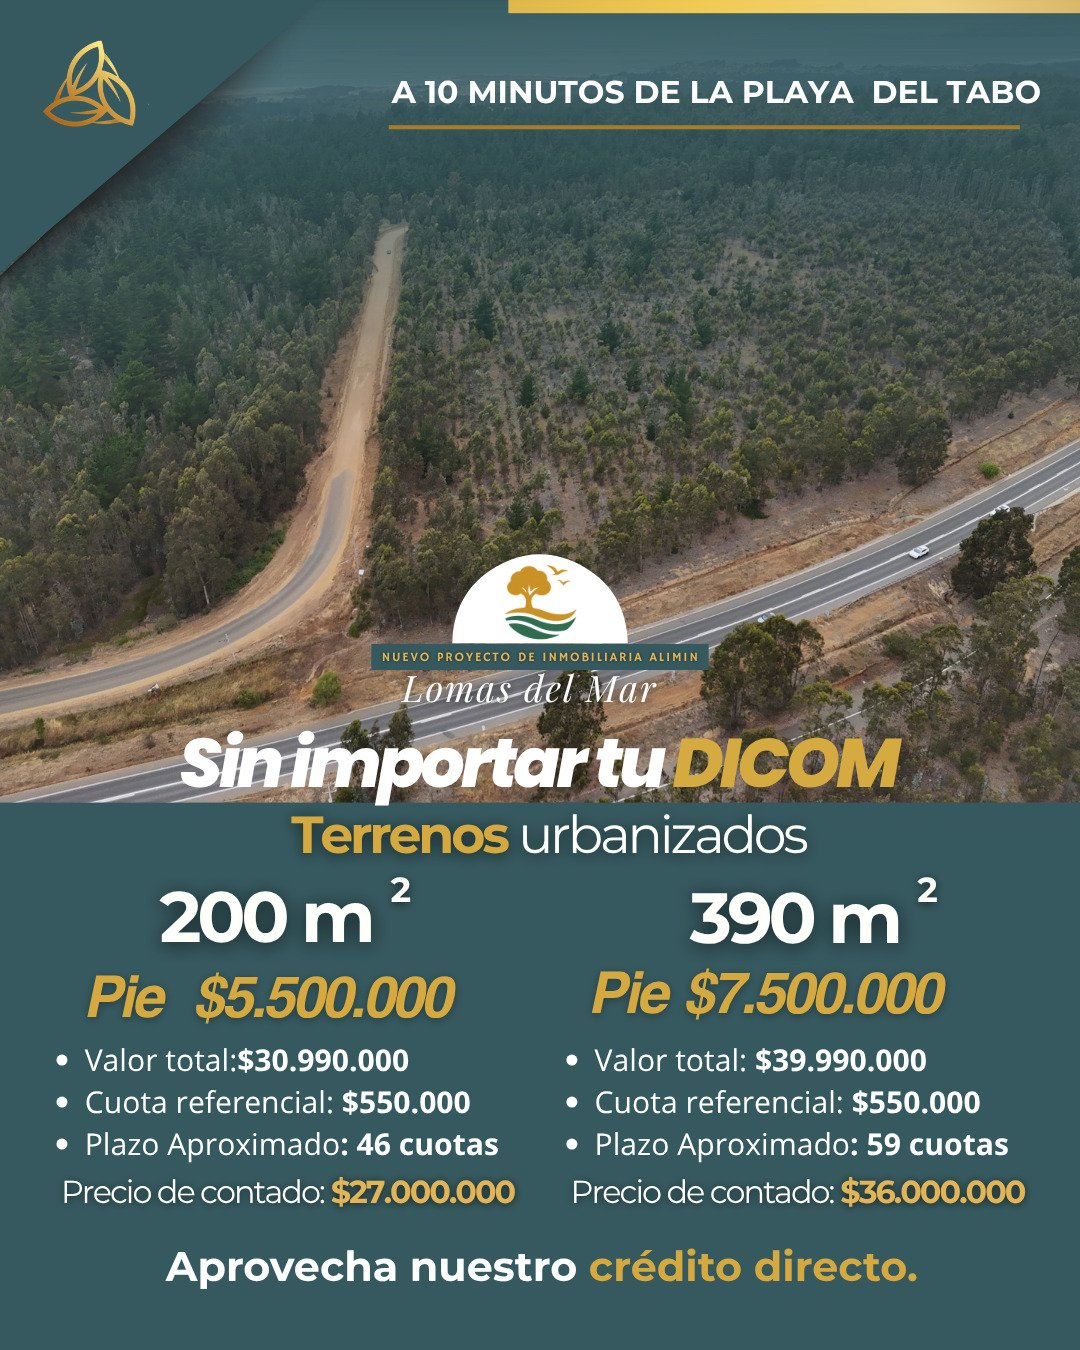
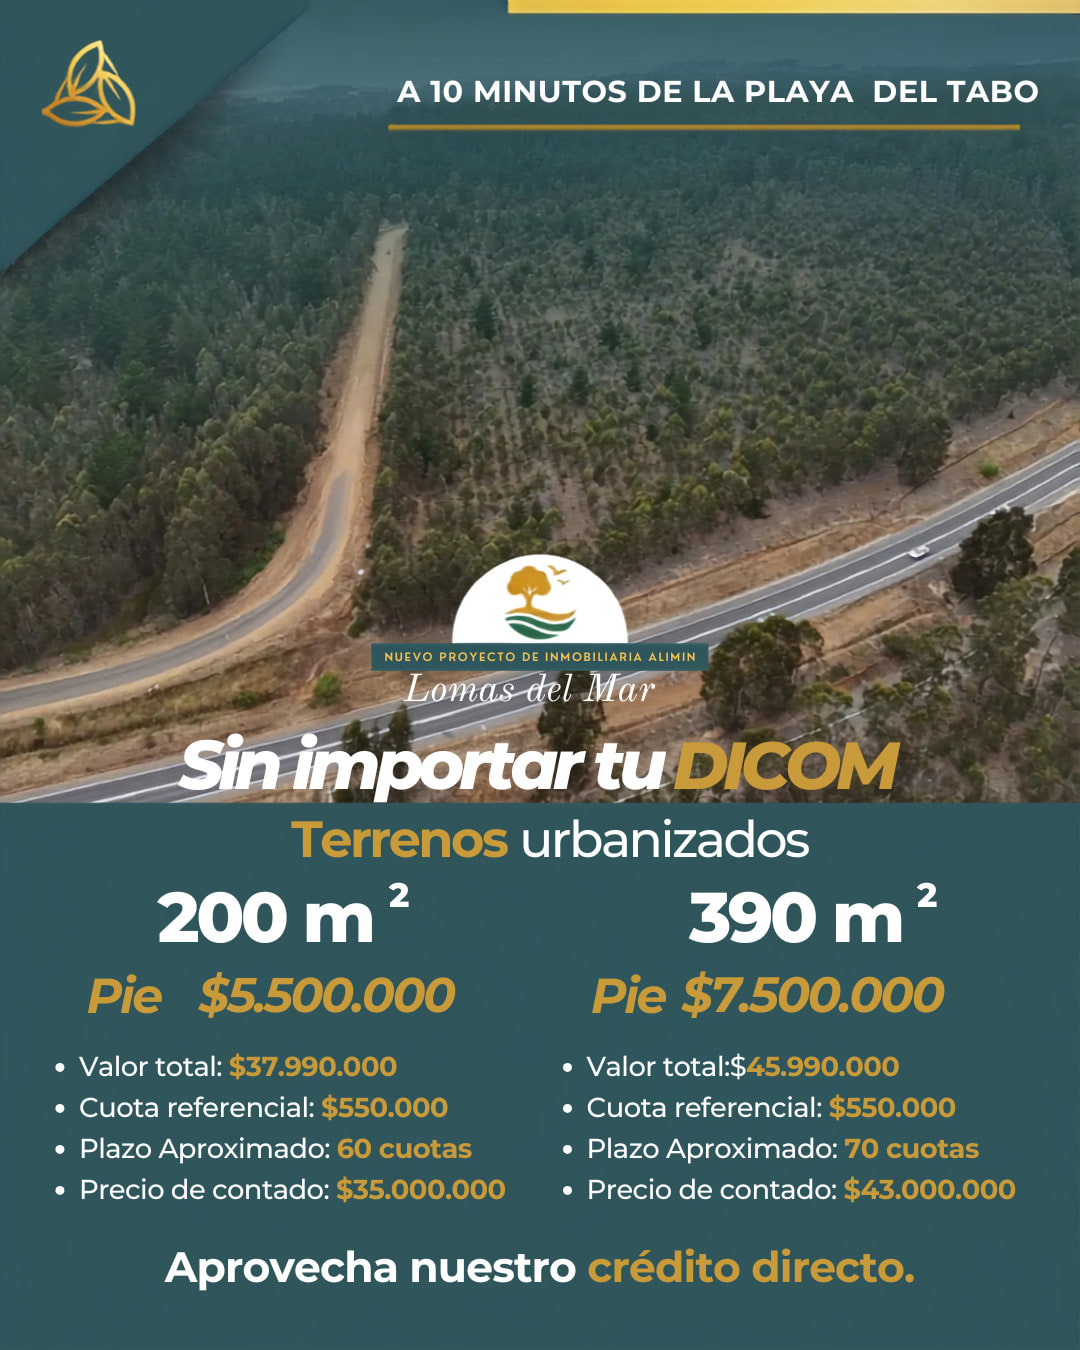
data(lomas): actualiza precios y flyer de Lomas del Mar
Reemplaza el flyer de /proyectos por la version vigente y alinea los
valores de Lomas del Mar en todo el sitio segun ese mismo flyer:

  200 m2: total $37.990.000 - 60 cuotas - contado $35.000.000
  390 m2: total $45.990.000 - 70 cuotas - contado $43.000.000

Los pies ($5.500.000 / $7.500.000) y la cuota referencial ($550.000)
no cambian. La distancia de Lomas pasa a 10 minutos de la playa, igual
que Arena y Sol y Libertad y Alegria; el copy generico del home se
mantiene en 8 minutos a peticion del cliente.

Toca constants.ts (fuente de PROJECTS), las tarjetas hardcodeadas de
PricingSection, y las landings /minipie, /venta-de-terrenos-litoral-central
y /cyber, mas el sidebar del blog. En /cyber solo se corrigen los valores
base: el gancho de pie en 3 cuotas sin interes queda intacto.

diff --git a/src/app/minipie/MiniPieClient.tsx b/src/app/minipie/MiniPieClient.tsx
@@ -727,7 +727,7 @@ export default function MiniPieClient() {
               <span style={{"font":"600 12px 'Roboto',sans-serif","color":"rgba(255,255,255,.45)"}}>Pie</span>
               <span style={{"font":"800 16px 'Montserrat',sans-serif","color":"#76d845"}}>$5.500.000</span>
             </div>
-            <div style={{"font":"500 10px 'Roboto',sans-serif","color":"rgba(118,216,69,.7)"}}>45 cuotas de $550.000</div>
+            <div style={{"font":"500 10px 'Roboto',sans-serif","color":"rgba(118,216,69,.7)"}}>60 cuotas de $550.000</div>
           </div>
 
 
@@ -737,7 +737,7 @@ export default function MiniPieClient() {
               <span style={{"font":"600 12px 'Roboto',sans-serif","color":"rgba(255,255,255,.45)"}}>Pie</span>
               <span style={{"font":"800 16px 'Montserrat',sans-serif","color":"#76d845"}}>$7.500.000</span>
             </div>
-            <div style={{"font":"500 10px 'Roboto',sans-serif","color":"rgba(118,216,69,.7)"}}>56 cuotas de $550.000</div>
+            <div style={{"font":"500 10px 'Roboto',sans-serif","color":"rgba(118,216,69,.7)"}}>70 cuotas de $550.000</div>
           </div>
 
         </div>
@@ -1108,7 +1108,7 @@ export default function MiniPieClient() {
             <div style={{"display":"flex","flexDirection":"column","gap":"9px"}}>
               <div style={{"display":"flex","justifyContent":"space-between","alignItems":"center","paddingBottom":"8px","borderBottom":"1px solid rgba(255,255,255,.08)"}}>
                 <span style={{"font":"400 14px 'Roboto',sans-serif","color":"rgba(255,255,255,.55)"}}>Valor total</span>
-                <span style={{"font":"700 15px 'Montserrat',sans-serif","color":"#fff"}}>$29.990.000</span>
+                <span style={{"font":"700 15px 'Montserrat',sans-serif","color":"#fff"}}>$37.990.000</span>
               </div>
               <div style={{"display":"flex","justifyContent":"space-between","alignItems":"center","paddingBottom":"8px","borderBottom":"1px solid rgba(255,255,255,.08)"}}>
                 <span style={{"font":"400 14px 'Roboto',sans-serif","color":"rgba(255,255,255,.55)"}}>Pie</span>
@@ -1120,11 +1120,11 @@ export default function MiniPieClient() {
               </div>
               <div style={{"display":"flex","justifyContent":"space-between","alignItems":"center","paddingBottom":"8px","borderBottom":"1px solid rgba(255,255,255,.08)"}}>
                 <span style={{"font":"400 14px 'Roboto',sans-serif","color":"rgba(255,255,255,.55)"}}>Plazo</span>
-                <span style={{"font":"700 15px 'Montserrat',sans-serif","color":"#fff"}}>45 cuotas</span>
+                <span style={{"font":"700 15px 'Montserrat',sans-serif","color":"#fff"}}>60 cuotas</span>
               </div>
               <div style={{"display":"flex","justifyContent":"space-between","alignItems":"center"}}>
                 <span style={{"font":"400 14px 'Roboto',sans-serif","color":"rgba(255,255,255,.55)"}}>Al contado</span>
-                <span style={{"font":"700 15px 'Montserrat',sans-serif","color":"#76d845"}}>$26.000.000</span>
+                <span style={{"font":"700 15px 'Montserrat',sans-serif","color":"#76d845"}}>$35.000.000</span>
               </div>
             </div>
           </div>
@@ -1238,7 +1238,7 @@ export default function MiniPieClient() {
             <div style={{"display":"flex","flexDirection":"column","gap":"9px"}}>
               <div style={{"display":"flex","justifyContent":"space-between","alignItems":"center","paddingBottom":"8px","borderBottom":"1px solid rgba(255,255,255,.08)"}}>
                 <span style={{"font":"400 14px 'Roboto',sans-serif","color":"rgba(255,255,255,.55)"}}>Valor total</span>
-                <span style={{"font":"700 15px 'Montserrat',sans-serif","color":"#fff"}}>$37.990.000</span>
+                <span style={{"font":"700 15px 'Montserrat',sans-serif","color":"#fff"}}>$45.990.000</span>
               </div>
               <div style={{"display":"flex","justifyContent":"space-between","alignItems":"center","paddingBottom":"8px","borderBottom":"1px solid rgba(255,255,255,.08)"}}>
                 <span style={{"font":"400 14px 'Roboto',sans-serif","color":"rgba(255,255,255,.55)"}}>Pie</span>
@@ -1250,11 +1250,11 @@ export default function MiniPieClient() {
               </div>
               <div style={{"display":"flex","justifyContent":"space-between","alignItems":"center","paddingBottom":"8px","borderBottom":"1px solid rgba(255,255,255,.08)"}}>
                 <span style={{"font":"400 14px 'Roboto',sans-serif","color":"rgba(255,255,255,.55)"}}>Plazo</span>
-                <span style={{"font":"700 15px 'Montserrat',sans-serif","color":"#fff"}}>56 cuotas</span>
+                <span style={{"font":"700 15px 'Montserrat',sans-serif","color":"#fff"}}>70 cuotas</span>
               </div>
               <div style={{"display":"flex","justifyContent":"space-between","alignItems":"center"}}>
                 <span style={{"font":"400 14px 'Roboto',sans-serif","color":"rgba(255,255,255,.55)"}}>Al contado</span>
-                <span style={{"font":"700 15px 'Montserrat',sans-serif","color":"#76d845"}}>$35.000.000</span>
+                <span style={{"font":"700 15px 'Montserrat',sans-serif","color":"#76d845"}}>$43.000.000</span>
               </div>
             </div>
           </div>
@@ -1727,11 +1727,11 @@ export default function MiniPieClient() {
             <div className="terreno-btns">
               <button type="button" onClick={onTerreno200} style={{"background":t200SelectedBg,"border":t200SelectedBorder,"borderRadius":"12px","padding":"14px 16px","cursor":"pointer","transition":"all .2s","textAlign":"left","backdropFilter":"blur(8px)"}}>
                 <div style={{"font":"700 16px 'Montserrat',sans-serif","color":t200SelectedColor,"marginBottom":"2px"}}>200 m²</div>
-                <div style={{"font":"400 12px 'Roboto',sans-serif","color":"#9CA3AF"}}>Pie $5.500.000 · 45 cuotas $550K</div>
+                <div style={{"font":"400 12px 'Roboto',sans-serif","color":"#9CA3AF"}}>Pie $5.500.000 · 60 cuotas $550K</div>
               </button>
               <button type="button" onClick={onTerreno390} style={{"background":t390SelectedBg,"border":t390SelectedBorder,"borderRadius":"12px","padding":"14px 16px","cursor":"pointer","transition":"all .2s","textAlign":"left","backdropFilter":"blur(8px)"}}>
                 <div style={{"font":"700 16px 'Montserrat',sans-serif","color":t390SelectedColor,"marginBottom":"2px"}}>390 m² ✦</div>
-                <div style={{"font":"400 12px 'Roboto',sans-serif","color":"#9CA3AF"}}>Pie $7.500.000 · 56 cuotas $550K</div>
+                <div style={{"font":"400 12px 'Roboto',sans-serif","color":"#9CA3AF"}}>Pie $7.500.000 · 70 cuotas $550K</div>
               </button>
             </div>
           </div>
@@ -1880,7 +1880,7 @@ export default function MiniPieClient() {
           <span style={{"font":"700 22px 'Montserrat',sans-serif","color":"#4ba646","flexShrink":"0"}}>{faq1icon}</span>
         </button>
         <div style={{"maxHeight":faq1h,"overflow":"hidden","transition":"max-height .35s cubic-bezier(.16,1,.3,1)"}}>
-          <p style={{"padding":"0 22px 18px","font":"400 14px/1.7 'Roboto',sans-serif","color":"#4B5563"}}>Pagas el pie inicial y el saldo se financia directamente con Alimin. Sin banco, sin aval. El saldo se divide en cuotas mensuales de $550.000: 45 cuotas para 200 m² y 56 cuotas para 390 m².</p>
+          <p style={{"padding":"0 22px 18px","font":"400 14px/1.7 'Roboto',sans-serif","color":"#4B5563"}}>Pagas el pie inicial y el saldo se financia directamente con Alimin. Sin banco, sin aval. El saldo se divide en cuotas mensuales de $550.000: 60 cuotas para 200 m² y 70 cuotas para 390 m².</p>
         </div>
       </div>
       

diff --git a/src/app/(main)/cyber/CyberPageClient.tsx b/src/app/(main)/cyber/CyberPageClient.tsx
@@ -205,7 +205,7 @@ function CyberForm({ proyectoInteres, setProyectoInteres }: CyberFormProps) {
                     }}
                 >
                     <option value="">Selecciona un proyecto</option>
-                    <option value="Lomas del Mar">Lomas del Mar (Desde $29.990.000)</option>
+                    <option value="Lomas del Mar">Lomas del Mar (Desde $37.990.000)</option>
                     <option value="Arena y Sol">Arena y Sol (Desde $42.000.000)</option>
                     <option value="Ambos / Consulta general">Ambos / Consulta general</option>
                 </select>
@@ -429,7 +429,7 @@ export default function CyberPageClient() {
                             </div>
                             <div className={styles.projectContent}>
                                 <h3 className={styles.projectName}>Lomas del Mar</h3>
-                                <p className={styles.projectDistance}>A 8 minutos de la playa del Tabo</p>
+                                <p className={styles.projectDistance}>A 10 minutos de la playa del Tabo</p>
                                 <p className={styles.projectDesc}>
                                     Terrenos con alta plusvalía y excelente conectividad. Diseñados para quienes buscan un refugio cerca del mar con urbanización completa de gran nivel.
                                 </p>
@@ -454,11 +454,11 @@ export default function CyberPageClient() {
                                     <div className={styles.financeDetails}>
                                         <div className={styles.financeItem}>
                                             <span className={styles.financeLabel}>Valor contado especial:</span>
-                                            <span className={`${styles.financeValue} ${styles.highlightValue}`}>Desde $26.000.000</span>
+                                            <span className={`${styles.financeValue} ${styles.highlightValue}`}>Desde $35.000.000</span>
                                         </div>
                                         <div className={styles.financeItem}>
                                             <span className={styles.financeLabel}>Pago con financiamiento:</span>
-                                            <span className={styles.financeValue}>Total $29.990.000</span>
+                                            <span className={styles.financeValue}>Total $37.990.000</span>
                                         </div>
                                         <div className={styles.financeItem}>
                                             <span className={styles.financeLabel}>Pie Cyber (3 cuotas sin interés):</span>

diff --git a/src/app/venta-de-terrenos-litoral-central/VentaTerrenosClient.tsx b/src/app/venta-de-terrenos-litoral-central/VentaTerrenosClient.tsx
@@ -432,7 +432,7 @@ export default function VentaTerrenosClient() {
                         <div className="al-projcard" style={s("position:relative;background:rgba(14,26,36,.75);backdrop-filter:blur(16px);border:2px solid rgba(118,216,69,.55);border-radius:22px;overflow:hidden;box-shadow:0 0 0 1px rgba(118,216,69,.18),0 14px 40px rgba(0,0,0,.45),0 0 46px rgba(118,216,69,.12);transition:transform .3s")}>
                             <div style={s("padding:26px 26px 0")}>
                                 <div style={s("display:inline-flex;align-items:center;gap:7px;background:rgba(118,216,69,.14);border:1px solid rgba(118,216,69,.35);border-radius:100px;padding:5px 12px;margin-bottom:14px")}>
-                                    <span style={s("font-size:11px")}>📍</span><span style={s("font:600 11px 'Montserrat',sans-serif;color:#b8f07a")}>A 8 minutos de la playa</span>
+                                    <span style={s("font-size:11px")}>📍</span><span style={s("font:600 11px 'Montserrat',sans-serif;color:#b8f07a")}>A 10 minutos de la playa</span>
                                 </div>
                                 <h3 style={s("font:800 26px 'Montserrat',sans-serif;color:#fff;margin:0 0 4px")}>Lomas del Mar</h3>
                                 <p style={s("font:400 14px/1.5 'Roboto',sans-serif;color:rgba(255,255,255,.55);margin:0 0 6px")}>Terrenos urbanizados · Sin importar tu DICOM · Crédito directo</p>
@@ -440,8 +440,8 @@ export default function VentaTerrenosClient() {
                             </div>
                             <div className="al-lomas-sizes" style={s("padding:0 26px")}>
                                 {[
-                                    { m: '200 m²', pie: '$5.500.000', total: '$29.990.000', cuota: '$550.000', plazo: '45 cuotas', contado: '$26.000.000' },
-                                    { m: '390 m²', pie: '$7.500.000', total: '$37.990.000', cuota: '$550.000', plazo: '56 cuotas', contado: '$35.000.000' },
+                                    { m: '200 m²', pie: '$5.500.000', total: '$37.990.000', cuota: '$550.000', plazo: '60 cuotas', contado: '$35.000.000' },
+                                    { m: '390 m²', pie: '$7.500.000', total: '$45.990.000', cuota: '$550.000', plazo: '70 cuotas', contado: '$43.000.000' },
                                 ].map((x) => (
                                     <div key={x.m} style={s("background:rgba(0,0,0,.28);border:1px solid rgba(118,216,69,.22);border-radius:14px;padding:16px")}>
                                         <div style={s("font:900 22px 'Montserrat',sans-serif;color:#fff;margin-bottom:2px")}>{x.m}</div>

diff --git a/src/app/(main)/proyectos/lomas-del-mar/PricingSection.tsx b/src/app/(main)/proyectos/lomas-del-mar/PricingSection.tsx
@@ -34,10 +34,10 @@ export default function PricingSection() {
                             <p className={styles.pieText}>Pie $5.500.000</p>
                             
                             <ul className={styles.featuresList}>
-                                <li>Valor total: <span>$29.990.000</span></li>
+                                <li>Valor total: <span>$37.990.000</span></li>
                                 <li>Cuota referencial: <span>$550.000</span></li>
-                                <li>Plazo aproximado: <span>45 cuotas</span></li>
-                                <li>Precio de contado: <span className={styles.goldText}>$26.000.000</span></li>
+                                <li>Plazo aproximado: <span>60 cuotas</span></li>
+                                <li>Precio de contado: <span className={styles.goldText}>$35.000.000</span></li>
                             </ul>
 
                             <div className={styles.dicomTitle}>
@@ -72,10 +72,10 @@ export default function PricingSection() {
                             <p className={styles.pieText}>Pie $7.500.000</p>
                             
                             <ul className={styles.featuresList}>
-                                <li>Valor total: <span>$37.990.000</span></li>
+                                <li>Valor total: <span>$45.990.000</span></li>
                                 <li>Cuota referencial: <span>$550.000</span></li>
-                                <li>Plazo aproximado: <span>56 cuotas</span></li>
-                                <li>Precio de contado: <span className={styles.goldText}>$35.000.000</span></li>
+                                <li>Plazo aproximado: <span>70 cuotas</span></li>
+                                <li>Precio de contado: <span className={styles.goldText}>$43.000.000</span></li>
                             </ul>
 
                             <div className={styles.dicomTitle}>

diff --git a/src/lib/constants.ts b/src/lib/constants.ts
@@ -45,7 +45,7 @@ export const PROJECTS = [
         description: 'Una inversión inteligente. Terrenos urbanizados en El Tabo, diseñados para quienes buscan calidad de vida y alta plusvalía. ¡Solo el 25% disponible!',
         features: ['Rol Propio', 'Agua Certificada', 'Luz Eléctrica', 'Portón Automático'],
         location: 'El Tabo, Región de Valparaíso',
-        distance: 'A 8 MINUTOS DE LA PLAYA DEL TABO',
+        distance: 'A 10 MINUTOS DE LA PLAYA DEL TABO',
         lotSize: '200 m² - 390 m²',
         status: 'Terrenos Disponibles',
         soldPercentage: 25,
@@ -60,18 +60,18 @@ export const PROJECTS = [
                 {
                     terreno: '200 m²',
                     pie: '$5.500.000',
-                    valorTotal: '$29.990.000',
+                    valorTotal: '$37.990.000',
                     cuotaReferencial: '$550.000',
-                    plazo: '45 Cuotas',
-                    pagoContado: '$26.000.000'
+                    plazo: '60 Cuotas',
+                    pagoContado: '$35.000.000'
                 },
                 {
                     terreno: '390 m²',
                     pie: '$7.500.000',
-                    valorTotal: '$37.990.000',
+                    valorTotal: '$45.990.000',
                     cuotaReferencial: '$550.000',
-                    plazo: '56 Cuotas',
-                    pagoContado: '$35.000.000'
+                    plazo: '70 Cuotas',
+                    pagoContado: '$43.000.000'
                 }
             ]
         }

diff --git a/src/app/(main)/blog/[slug]/ArticleClient.tsx b/src/app/(main)/blog/[slug]/ArticleClient.tsx
@@ -212,7 +212,7 @@ export default function ArticleClient({ post }: ArticleClientProps) {
                                 <div className={styles.sidebarProjects}>
                                     <div className={styles.sidebarProjectCard}>
                                         <h5 className={styles.sidebarProjectName}>Lomas del Mar</h5>
-                                        <span className={styles.sidebarProjectLabel}>Desde $26.000.000 (Contado)</span>
+                                        <span className={styles.sidebarProjectLabel}>Desde $35.000.000 (Contado)</span>
                                         <Link href="/proyectos/lomas-del-mar" className={styles.sidebarProjectLink}>
                                             Ver detalles <ChevronRight size={12} />
                                         </Link>

diff --git a/src/app/(main)/proyectos/lomas-del-mar/page.tsx b/src/app/(main)/proyectos/lomas-del-mar/page.tsx
@@ -107,7 +107,7 @@ export default function LomasDelMarPage() {
                                 </svg>
                             </div>
                             <h2 className={styles.introSubtitle}>
-                                A solo 8 minutos de la playa de <strong>El Tabo.</strong>
+                                A solo 10 minutos de la playa de <strong>El Tabo.</strong>
                             </h2>
                         </div>
                         
